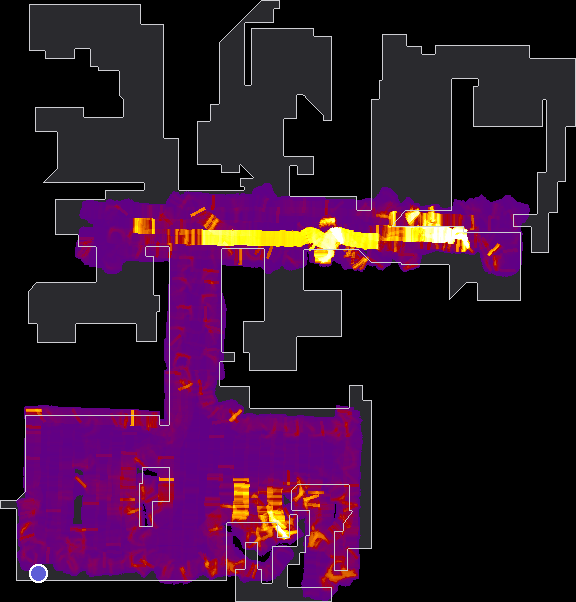
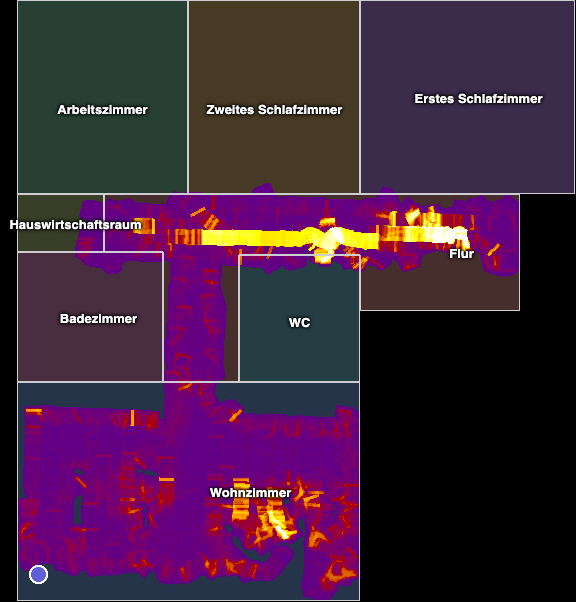
Explain the floor plan and its switch in the README
The sample map now shows the floor plan with its room names, and the
section on recent cleans says what the floor plan tidies up, what it
assumes, and how to tell a mapping fault from a drawing one.

diff --git a/README.md b/README.md
@@ -168,22 +168,29 @@ Open the plugin's settings in Homebridge and switch to the **Recent Cleans** tab
 - how often the robot had to recharge, if it did
 - the rooms it cleaned — rooms it only drove through on the way are left out
 
-Select a clean to see its map, drawn at full resolution — one pixel for every 2 cm of floor:
+Select a clean to see its map, drawn at full resolution — one pixel for every 2 cm of floor — with the rooms you set up in the MyDyson app, each in its own colour and with its name:
 
 <p align="center">
-  <img src="https://raw.githubusercontent.com/rummeyer/homebridge-dyson-vis-nav/main/assets/clean-map.png" width="576" alt="Map of a clean covering a hallway and a living room, coloured by how much dust the robot picked up">
+  <img src="https://raw.githubusercontent.com/rummeyer/homebridge-dyson-vis-nav/main/assets/clean-map.png" width="576" alt="Floor plan of a flat with eight named rooms; the hallway and living room are coloured by how much dust the robot picked up">
 </p>
 
 | On the map | Means |
 |---|---|
 | purple → red → orange → yellow → white | cleaned floor, coloured by how much dust the robot picked up there; the brighter, the dirtier |
-| dark grey | a room on your map that this clean did not cover |
-| thin white lines | room boundaries |
+| dark, tinted | a room that this clean did not cover, one tint per room |
+| white lines | walls |
 | blue dot | the dock |
 | yellow dot | where the robot reported a fault |
 | black | outside your map |
 
 The map is drawn from the cloud data stored with each clean when you open it, so every stored clean has one.
+
+**Floor plan or as mapped.** The switch above the map picks how the rooms are drawn, and your browser remembers the choice:
+
+- **Floor plan** (the default) tidies the rooms into a plan. The robot maps a room only as far as it can drive, so furniture leaves it ragged: a bed is a hole, a wardrobe along a wall takes 60 cm off the room. Each room is squared off into a rectangle, or a few rectangles for an L- or T-shaped hallway. Walls then line up: rooms meet without gaps, and rooms along the same outside wall end at the same line. A room that stops short of its neighbour, say where a bath stands, is extended to meet it.
+- **As mapped** shows the rooms exactly as the robot recorded them, with every piece of furniture outlined in white and grey lines where one room meets the next.
+
+The floor plan assumes straight walls at right angles. Sloping walls and bay windows come out as rectangles. If a room looks wrong, check it under **As mapped**: a room that runs into its neighbour there was mapped that way, and is fixed by editing the room in the MyDyson app.
 
 **Where the maps come from.** When the robot finishes a clean, the plugin asks Dyson's cloud for the clean's map — the same data the MyDyson app shows — and stores it locally, keeping the last five. Dyson's cloud keeps about as many, but the stored copy means the list keeps working when the cloud does not answer or the authorisation has lapsed.
 
